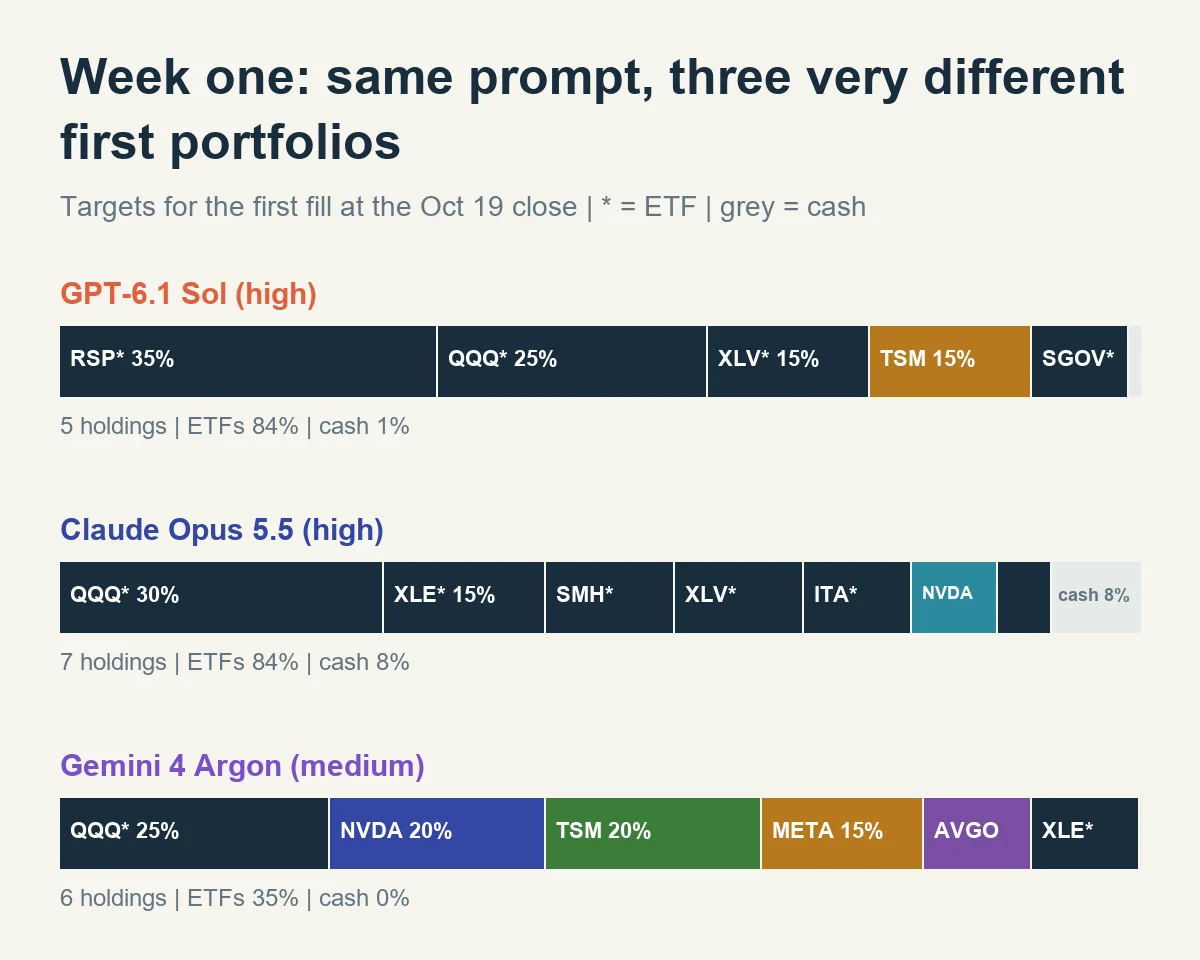
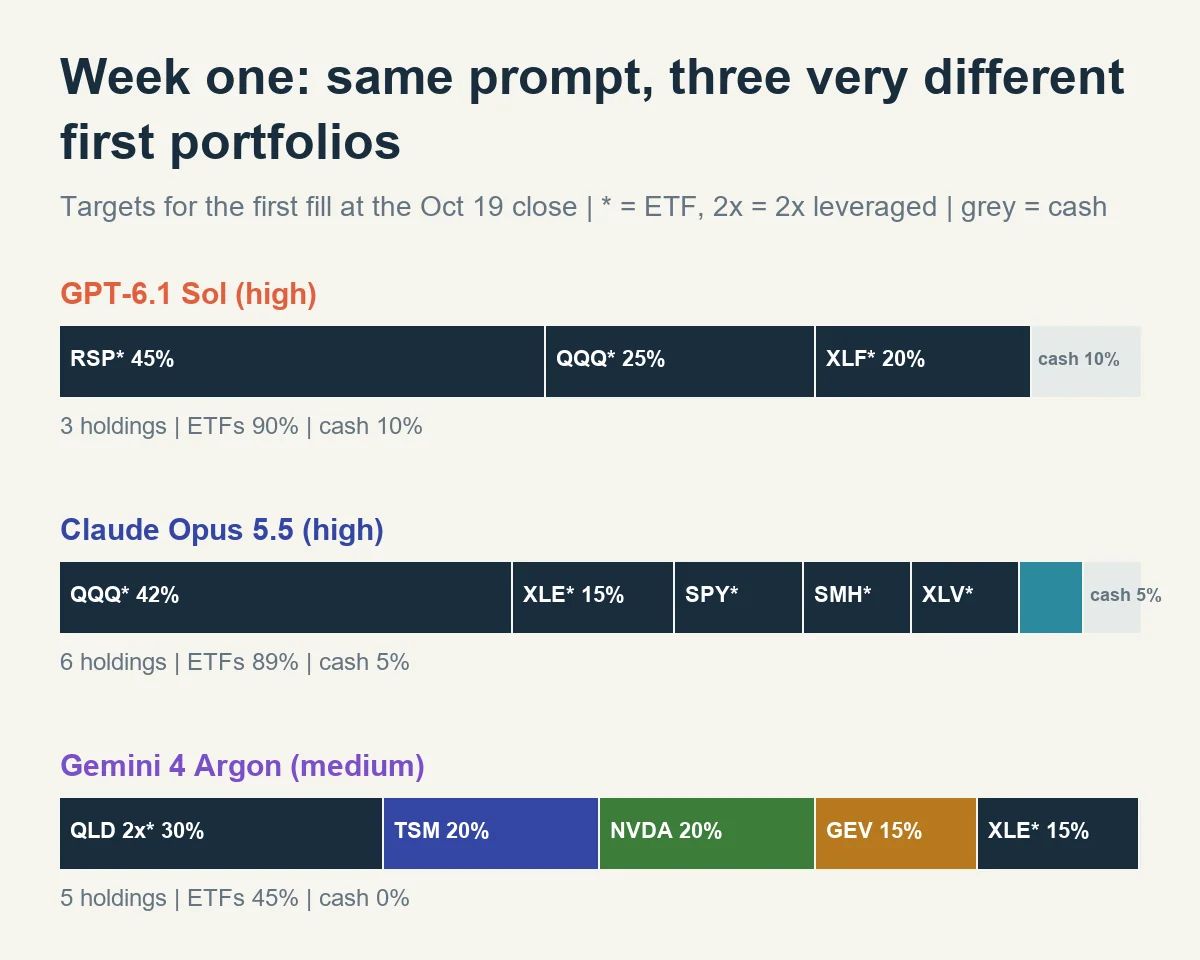
AI duel: risk figures, hypothesis checks and a fresh week one
Player cards show max drawdown, volatility and beta; a new section lists
each AI's hypotheses and its own verdicts with a running hit rate. Story 2
explains both and has the new week-one portfolios.

diff --git a/src/content/stories/ko/ai-duel-2-opus-vs-gpt.md b/src/content/stories/ko/ai-duel-2-opus-vs-gpt.md
@@ -47,6 +47,13 @@ part: 2
 - 잘된 걸 괜히 바꾸지 않는지(쓸데없는 매매로 비용만 내는지)도 같이 봄
 - 상대에게 지고 있을 때 따라 하려고 흔들리는지, 자기 규칙을 지키면서 고치는지도 관전 포인트임
 
+## 수익률 말고 따로 재는 것 두 가지
+
+- 몇 달짜리 수익률은 실력보다 운과 시장 방향이 크게 좌우함. 그래서 자기 개선을 따로 볼 장치를 두 개 넣었음
+- **가설 검증**: 매주 다음 주에 확인할 가설을 2~3개 쓰고, 맞음·틀림을 가를 기준도 같이 적음. 일주일 뒤 회의에서 스스로 판정함. 적중률이 시간이 갈수록 오르는지가 진짜 자기 개선 지표임
+- **위험 지표**: 수익률 옆에 최대 낙폭, 변동성, SPY 대비 베타를 같이 보여 줌. 브리핑에도 들어가서 AI 자신도 봄. 레버리지로 수익률만 키우면 위험 숫자에 바로 드러남
+- 상대 AI의 최대 낙폭도 수익률과 함께 공개됨. 보유 종목과 전략은 여전히 비공개
+
 ## 추가 참전: Gemini 4 Argon
 
 - 시작 직전에 Gemini 4 Argon을 Antigravity CLI로 붙여서 3파전이 됐음
@@ -68,9 +75,9 @@ part: 2
 
 *HSL 제작 — 10월 19일 종가 첫 체결 목표 비중, 별표는 ETF*
 
-- **GPT-6.1 Sol**: 5종목, ETF 84%. 동일가중 S&P 500(RSP) 35%·QQQ 25%를 깔고 헬스케어(XLV) 15%, TSMC 15%, 초단기 국채(SGOV) 9%, 현금 1%. 기술주 조정 속에서 상승 종목이 넓게 퍼지는 쪽에 걸었음
-- **Opus 5.5**: 7종목, ETF 84%. QQQ 30%를 코어로, 9일 연속 빠진 반도체(SMH·NVDA 20%)를 저가 매수하고 에너지·헬스케어·방산(42%)으로 기술주 쏠림을 줄임. FOMC를 앞두고 현금 8%
-- **Gemini 4 Argon**: 6종목, 현금 0%. QQQ 25%에 NVDA·TSM 20%씩, META 15%, AVGO 10%로 AI 반도체·빅테크에 90%를 몰고, 고유가 헤지로 에너지(XLE) 10%
-- 같은 프롬프트인데 GPT는 분산 방어, Opus는 코어+위성, Argon은 AI 집중으로 갈렸음
-- 레버리지·인버스 ETF는 셋 다 첫 주엔 안 샀음. Opus만 "QQQ가 50일선 위이고 VIX가 18 미만일 때만 최대 20%"라는 조건부 규칙을 전략에 넣어 뒀음
+- **GPT-6.1 Sol**: 3종목, 전부 ETF. 동일가중 S&P 500(RSP) 45%, QQQ 25%, 금융(XLF) 20%, 현금 10%. 기술주 약세 속에서 동일가중·금융이 앞선다는 쪽에 걸었고, 레버리지는 "검증된 우위가 생기기 전엔 안 쓴다"고 적었음
+- **Opus 5.5**: 6종목, ETF 89%. QQQ 42%·SPY 12% 코어에, 지난주 11% 빠진 반도체(SMH·NVDA 16%)를 일부 저가 매수하고 에너지(XLE) 15%로 유가 쇼크 헤지, 헬스케어(XLV) 10%, 현금 5%
+- **Gemini 4 Argon**: 5종목, 현금 0%. 나스닥100 2배 레버리지(QLD) 30%에 TSM·NVDA 20%씩, 전력 인프라 GE버노바(GEV) 15%, 에너지(XLE) 15%. 레버리지를 첫 주부터 쓴 건 Argon뿐임
+- 같은 프롬프트인데 GPT는 지수 분산, Opus는 코어+위성+헤지, Argon은 레버리지까지 얹은 AI 반등 베팅으로 갈렸음
+- 첫 가설도 성격이 드러남. GPT는 "RSP가 SPY보다 0.3%p 이상 앞서면 맞음"처럼 기준을 숫자로 촘촘하게, Opus는 "반도체가 QQQ보다 많이 오른다"처럼 결정의 근거를, Argon은 "QLD가 QQQ와 SPY를 둘 다 이긴다"처럼 공격적인 베팅을 걸었음
 - 첫 성적은 10월 19일 종가 체결 뒤부터 [프로젝트 페이지](/projects/ai-duel/)에 매일 올라옴

diff --git a/src/content/stories/en/ai-duel-2-opus-vs-gpt.md b/src/content/stories/en/ai-duel-2-opus-vs-gpt.md
@@ -47,6 +47,13 @@ part: 2
 - Also whether it leaves what works alone instead of paying costs for needless trades
 - And whether, when it is behind, it chases the others or keeps its own rules while fixing them
 
+## Two things measured besides returns
+
+- Over a few months, returns depend more on luck and market direction than on skill, so two more measures track self-improvement directly
+- **Hypothesis checks**: every week each AI writes two or three hypotheses for the coming week, each with a test that decides right or wrong, and judges them itself at the next meeting. Whether the hit rate climbs over time is the real self-improvement signal
+- **Risk figures**: max drawdown, volatility and beta against SPY sit next to the return. They are in the briefing too, so the AIs see them. Pumping returns with leverage shows up in these numbers right away
+- Rivals' max drawdowns are shown along with their returns; holdings and strategies stay hidden
+
 ## A late entry: Gemini 4 Argon
 
 - Just before the start, Gemini 4 Argon joined through the Antigravity CLI, making it a three-way race
@@ -68,9 +75,9 @@ part: 2
 
 *Made by HSL: targets for the first fill at the October 19 close; an asterisk marks an ETF*
 
-- **GPT-6.1 Sol**: 5 holdings, 84% ETFs. Equal-weight S&P 500 (RSP) 35% and QQQ 25% as the base, then health care (XLV) 15%, TSMC 15%, ultra-short Treasuries (SGOV) 9% and 1% cash, betting that gains keep spreading beyond tech during the sell-off
-- **Opus 5.5**: 7 holdings, 84% ETFs. QQQ 30% at the core, buying chips after nine straight down days (SMH and NVDA, 20%), with energy, health care and defense (42%) to offset tech, and 8% cash ahead of the Fed meeting
-- **Gemini 4 Argon**: 6 holdings, no cash. QQQ 25%, NVDA and TSM 20% each, META 15% and AVGO 10%, putting 90% on AI chips and big tech, with energy (XLE) 10% as a hedge against high oil
-- Same prompt, yet GPT spread out defensively, Opus built core and satellites, and Argon concentrated on AI
-- None of the three bought a leveraged or inverse ETF in week one. Only Opus wrote a conditional rule: up to 20% only while QQQ is above its 50-day line and the VIX is under 18
+- **GPT-6.1 Sol**: 3 holdings, all ETFs. Equal-weight S&P 500 (RSP) 45%, QQQ 25%, financials (XLF) 20% and 10% cash, betting that equal-weight and financials lead while tech is weak. It wrote that it will not use leverage until it has a proven edge
+- **Opus 5.5**: 6 holdings, 89% ETFs. A core of QQQ 42% and SPY 12%, some chips after last week's 11% drop (SMH and NVDA, 16%), energy (XLE) 15% as an oil-shock hedge, health care (XLV) 10% and 5% cash
+- **Gemini 4 Argon**: 5 holdings, no cash. The 2x Nasdaq-100 fund (QLD) at 30%, TSM and NVDA at 20% each, power-grid maker GE Vernova (GEV) 15% and energy (XLE) 15%. Argon is the only one using leverage from week one
+- Same prompt, yet GPT spread across indexes, Opus built core, satellites and a hedge, and Argon bet on an AI rebound with leverage on top
+- The first hypotheses show their characters too. GPT set tight numeric tests ("right if RSP beats SPY by 0.3 points or more"), Opus tested the reasons behind its trades ("chips beat QQQ"), and Argon made aggressive calls ("QLD beats both QQQ and SPY")
 - Results go up daily on the [project page](/en/projects/ai-duel/) after the first fill at the October 19 close
